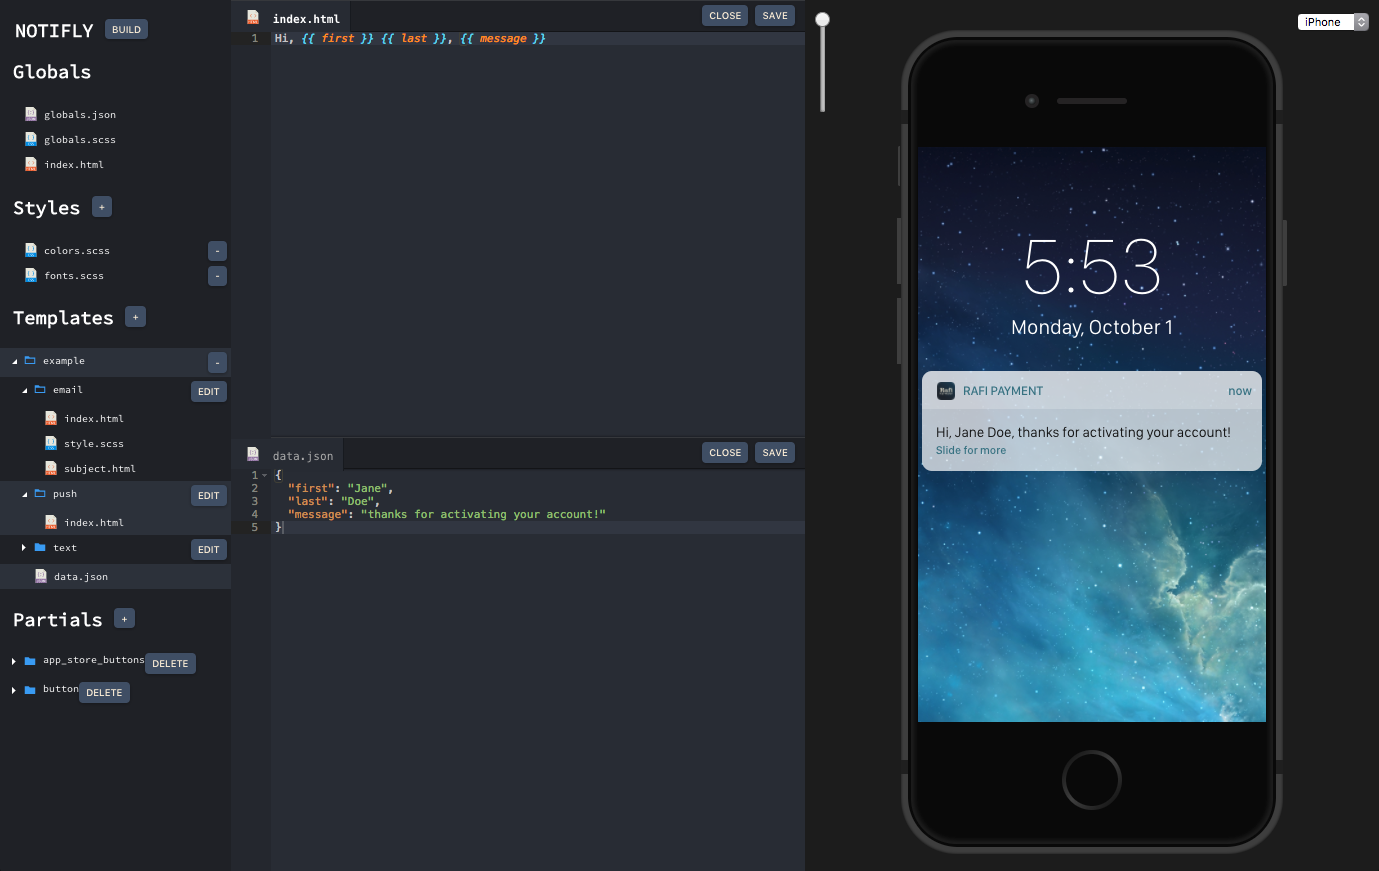
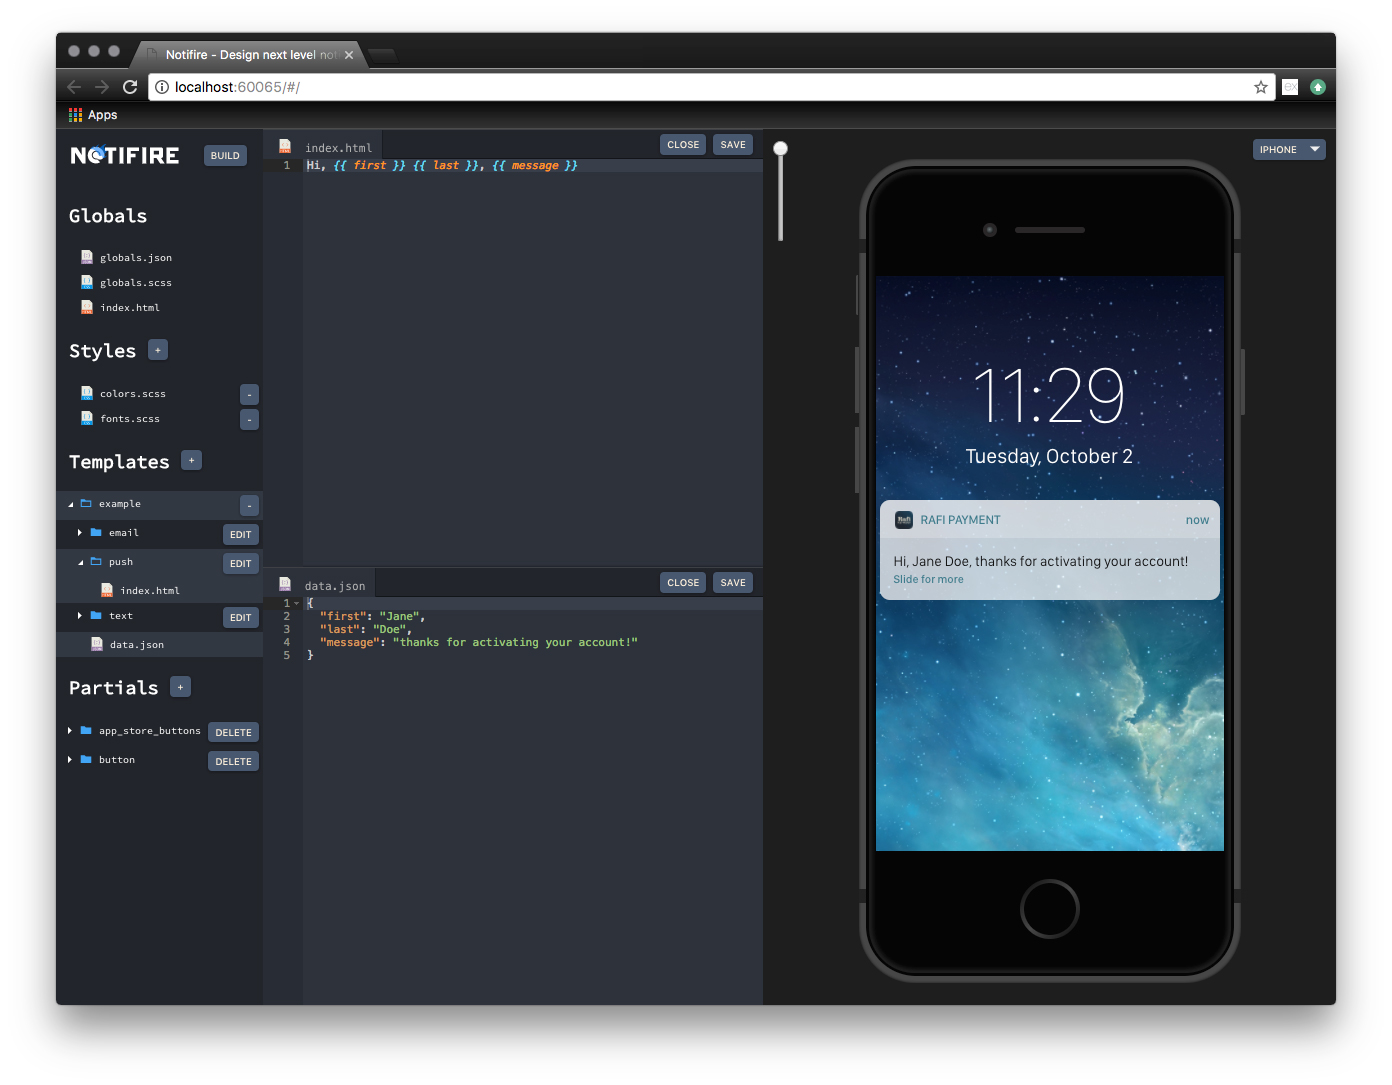
renamed project, cleaned up presentation, updated readme

diff --git a/src/js/components/logo.vue b/src/js/components/logo.vue
@@ -1,18 +1,27 @@
 <template>
-  <svg viewBox="0 0 413 129" :style="[fill]">
-    <path class="st0" d="M26.3,35v62.7h-1.9V31.3h1.4L76.6,95V31.3h1.9v66.4h-2.1L26.3,35z"/>
-    <path class="st0" d="M123.1,98.1c-4.6,0-8.8-1-12.6-2.9c-3.8-1.9-7-4.5-9.8-7.6c-2.7-3.1-4.9-6.7-6.4-10.7c-1.5-4-2.2-8.2-2.2-12.4
-      c0-4.4,0.8-8.7,2.4-12.7c1.6-4,3.8-7.6,6.5-10.7c2.8-3.1,6-5.6,9.8-7.4c3.8-1.8,7.8-2.8,12.2-2.8c4.5,0,8.7,1,12.5,2.9
-      c3.8,2,7.1,4.5,9.8,7.7c2.7,3.2,4.8,6.8,6.3,10.8c1.5,4,2.2,8.1,2.2,12.2c0,4.5-0.8,8.8-2.4,12.8c-1.6,4.1-3.8,7.6-6.5,10.7
-      c-2.8,3.1-6,5.5-9.8,7.4C131.5,97.2,127.5,98.1,123.1,98.1z M94,64.5c0,4.1,0.7,8.1,2.2,11.9c1.5,3.8,3.5,7.2,6,10.2
-      c2.6,3,5.6,5.3,9.2,7.1c3.6,1.7,7.4,2.6,11.7,2.6c4.3,0,8.2-0.9,11.8-2.8c3.6-1.8,6.6-4.3,9.2-7.2c2.5-3,4.5-6.4,5.9-10.2
-      c1.4-3.8,2.1-7.7,2.1-11.6c0-4.1-0.7-8.1-2.2-11.9c-1.5-3.8-3.5-7.2-6.1-10.2c-2.6-3-5.7-5.3-9.2-7.1c-3.5-1.7-7.3-2.6-11.4-2.6
-      c-4.3,0-8.2,0.9-11.8,2.8c-3.6,1.8-6.7,4.3-9.2,7.2c-2.6,3-4.5,6.4-5.9,10.2C94.7,56.7,94,60.6,94,64.5z"/>
-    <path class="st0" d="M209.7,33.2h-25.4v64.5h-1.9V33.2H157v-1.9h52.7V33.2z"/>
-    <path class="st0" d="M220.7,97.7V31.3h1.9v66.4H220.7z"/>
-    <path class="st0" d="M241,97.7V31.3h42.7v1.9h-40.8v29.5h34.9v1.9h-34.9v33.1H241z"/>
-    <path class="st0" d="M297.3,97.7V31.3h1.9v64.5h41.7v1.9H297.3z"/>
-    <path class="st0" d="M335.1,31.3l25.6,38.5l25.7-38.5h2.1L361.7,72v25.7h-1.9V71.8L333,31.3H335.1z"/>
+  <svg viewBox="0 0 120 32" class="logo">
+    <path class="st0" d="M37.6,13.1c-0.4-1-1-1.9-1.8-2.6s-1.6-1.3-2.6-1.8s-2.1-0.6-3.2-0.6c-1.1,0-2.2,0.2-3.2,0.6s-1.9,1-2.6,1.8
+      s-1.3,1.6-1.8,2.6c-0.4,1-0.6,2.1-0.6,3.2c0,1,0.2,2,0.5,2.9c0.3,0.9,0.8,1.7,1.4,2.4c0.1,0.1,0.1,0.2,0.2,0.2s0.1,0.2,0.2,0.2
+      c0.8,0.8,1.7,1.4,2.6,1.8h0c0,0,0.1,0,0.1,0c0.5,0.2,1,0.3,1.5,0.4s1,0.2,1.6,0.2c0.7,0,1.5-0.1,2.2-0.3c0.7-0.2,1.4-0.5,2-0.9
+      l-2.9-2.9c-1,0.3-2,0.2-2.9-0.2c0,0,0,0,0,0c0,0,0,0,0,0c0,0,0,0,0,0c-0.8-0.3-1.4-0.9-1.8-1.6c-0.5-0.7-0.7-1.5-0.7-2.4
+      c0-0.6,0.1-1.2,0.3-1.7c0.2-0.5,0.5-1,0.9-1.4c0.4-0.4,0.9-0.7,1.4-0.9c0.5-0.2,1.1-0.3,1.7-0.3c0.6,0,1.2,0.1,1.7,0.3
+      c0.5,0.2,1,0.5,1.4,0.9c0.4,0.4,0.7,0.8,0.9,1.4c0.2,0.5,0.3,1.1,0.3,1.7c0,0.2-0.1,0.3-0.2,0.5c-0.1,0.1-0.3,0.2-0.4,0.2
+      c0,0-0.1,0-0.1-0.1c-0.1-0.1-0.1-0.2-0.1-0.4v-0.2c0-0.5-0.1-0.9-0.3-1.3c-0.2-0.4-0.4-0.8-0.7-1.1c-0.3-0.3-0.7-0.6-1.1-0.7
+      c-0.4-0.2-0.9-0.3-1.3-0.3c-0.5,0-0.9,0.1-1.3,0.3c-0.4,0.2-0.8,0.4-1.1,0.7c-0.3,0.3-0.6,0.7-0.7,1.1c-0.2,0.4-0.3,0.9-0.3,1.3
+      c0,0.5,0.1,0.9,0.3,1.3c0.2,0.4,0.4,0.8,0.7,1.1c0.3,0.3,0.7,0.6,1.1,0.7c0.4,0.2,0.9,0.3,1.3,0.3c0.2,0,0.3,0,0.5,0
+      c0.1,0,0.3,0,0.4-0.1c0.4,0.4,0.8,0.7,1.3,0.9c0.5,0.2,1,0.3,1.5,0.3c0.6,0,1.2-0.1,1.7-0.4c0.5-0.2,1-0.6,1.4-1s0.7-0.9,1-1.4
+      c0.2-0.6,0.4-1.1,0.4-1.8C38.3,15.2,38.1,14.1,37.6,13.1z"/>
+    <path class="st1" d="M24.2,10c0,0,1.8-3,5.1-3c0,0-3.1,1.2-1.5,1.8c1.5,0.6,2.6-3.1,5.7-3.3c0,0-3.2,1.9-1.1,3.2
+      C34.4,10,36.2,5,41,4.5c0,0-4.4,3.1-2.6,5s3-0.8,3-0.8s0.2,2.6-1.2,4.3c-1.4,1.7-3,3.2-1.3,4.1c1.6,0.9,2.3-1.1,2.3-1.1
+      s-0.1,2.7-4.8,3.4c0,0,0.7-3.4-1.9-2.4C31.7,18,32.4,10.1,24.2,10z"/>
+    <path class="st0" d="M19.7,24.5h-3.3l-7.3-11v11H5.3V8.4h5.4l5.1,7.8V8.4h3.8V24.5z"/>
+    <path class="st0" d="M50.1,11.8h-3.7v12.8h-3.8V11.8h-3.7V8.4h11.3V11.8z"/>
+    <path class="st0" d="M57.4,24.5h-3.8V8.4h3.8V24.5z"/>
+    <path class="st0" d="M64.8,11.8v3h4.6v3.4h-4.6v6.3H61V8.4h12.1v3.5H64.8z"/>
+    <path class="st0" d="M80.2,24.5h-3.8V8.4h3.8V24.5z"/>
+    <path class="st0" d="M94.2,24.5L90.5,19h-2.7v5.5H84V8.4h11c0.5,0,1,0.2,1.4,0.5s0.6,0.7,0.6,1.2v7.2c0,0.5-0.2,0.9-0.6,1.2
+      S95.5,19,95,19l3.7,5.5H94.2z M87.8,15.5h5.3v-3.7h-5.3V15.5z"/>
+    <path class="st0" d="M104.1,11.8v3h4.6v3.4h-4.6v2.9h8.4v3.4h-12.1V8.4h12.1v3.5H104.1z"/>
   </svg>
 </template>
 
@@ -42,6 +51,13 @@ export default {
 <style scoped lang="scss">
 @import '~%/modules/colors';
 
+.st0 {
+  fill:#FFFFFF;
+}
+.st1 {
+  fill:#0080FF;
+  opacity: 0.6;
+}
 // svg {
 //   color: $color-text-light;
 // }

diff --git a/src/js/components/editor-group.vue b/src/js/components/editor-group.vue
@@ -14,7 +14,28 @@
       <div class="container">
         <logo />
         <div class="tagline">
-          Lorem ipsum dolor sit amet
+          Design next level notifications
+        </div>
+        <div class="getting-started">
+          <h3>Getting Started</h3>
+          <p>Create a new template or select an existing one, then click edit. This will open the relevant files in the editor, and render the template.</p>
+
+          <h3>Templates</h3>
+          <p>
+            Templates are a group that represent a single notification, each containing an email, a push notification, and a text message.
+            <a href="http://handlebarsjs.com/expressions.html" target="_blank">More info</a>
+          </p>
+
+          <h3>Partials</h3>
+          <p>
+            Partials allow you to reuse components within your templates. 
+            <a href="http://handlebarsjs.com/partials.html" target="_blank">More info</a>
+          </p>
+
+          <h3>Globals</h3>
+          <p>
+            Globals are elements that are shared between all templates. Your global template will wrap every email template, global json will be available to every template, global styles will be applied to every template.
+          </p>
         </div>
       </div>
     </div>
@@ -133,6 +154,10 @@ $divider-background: #333;
   color: $color-text-light;
   float: left;
   overflow: hidden;
+  
+  &.empty {
+    overflow: scroll;
+  }
 }
 .divider {
   height: $divider-height;
@@ -147,10 +172,20 @@ $divider-background: #333;
 }
 .container {
   max-width: 90%;
-  width: 500px;
+  width: 300px;
   margin: 10vh auto 0;
+
+  .logo {
+    width: 200px;
+  }
 }
 .tagline {
   color: $color-highlight;
+}
+
+.getting-started {
+  margin-top: 30px;
+  text-align: left;
+  font-size: 12px;
 }
 </style>

diff --git a/src/js/components/structures/email/index.vue b/src/js/components/structures/email/index.vue
@@ -3,11 +3,13 @@
     <div class="mask" />
     <component :is="type" :data="renderer_html"/>
     <div class="menu">
-      <select v-model="type">
-        <option value="desktop">Desktop</option>
-        <option value="iphone">iPhone</option>
-        <option value="android">Android</option>
-      </select>
+      <div class="select">
+        <select v-model="type">
+          <option value="desktop">Desktop</option>
+          <option value="iphone">iPhone</option>
+          <option value="android">Android</option>
+        </select>
+      </div>
       <div class="sender">
         <button @click="toggleModal">Send Test</button>
         <modal v-if="modal_visible" @close="closeModal" :confirm="confirmModal">
@@ -120,10 +122,14 @@ $subject-height: 32px;
   position: absolute;
   top: 10px;
   right: 10px;
+
+  select {
+    margin-top: 10px;
+  }
 }
 .sender {
   // margin-top: 6px;
-  margin-top: 2px;
+  margin-top: 10px;
   float: right;
   margin-left: 7px;
 }

diff --git a/src/scss/modules/reset.scss b/src/scss/modules/reset.scss
@@ -1,0 +1,43 @@
+/**
+ * reset.scss
+ */
+
+ *, *:before, *:after {
+  box-sizing: inherit;
+}
+html {
+  box-sizing: border-box;
+}
+html, body, div, span, object, iframe, blockquote, pre,
+a, abbr, acronym, address, big, cite, code,
+del, dfn, em, img, ins, kbd, q, s, samp,
+small, strike, strong, sub, sup, tt, var,
+b, u, i, center,
+dl, dt, dd, ol, ul, li,
+fieldset, form, label, legend,
+table, caption, tbody, tfoot, thead, tr, th, td,
+article, aside, canvas, details, embed,
+figure, figcaption, footer, header, hgroup,
+menu, nav, output, section, summary,
+time, mark, audio, video {
+  margin: 0;
+  padding: 0;
+  border: 0;
+  font-size: 100%;
+  font: inherit;
+  vertical-align: baseline;
+}
+article, aside, details, figcaption, figure,
+footer, header, hgroup, menu, nav, section {
+  display: block;
+}
+// html, body {
+//   line-height: 1em;
+// }
+// h1, h2, h3, h4, h5, h6 {
+//   margin: 0;
+// }
+table {
+  border-collapse: collapse;
+  border-spacing: 0;
+}

diff --git a/src/scss/modules/buttons.scss b/src/scss/modules/buttons.scss
@@ -2,7 +2,7 @@
 
 $button-text-size: 0.6rem;
 
-button {
+button, select {
   display: inline-block;
   position: relative;
   padding: .40em .65em;
@@ -47,5 +47,36 @@ button {
       color: $color-button-text;
       box-shadow: 0 1px 4px rgba(0,0,0, 0.2);
     }
+  }
+}
+
+select {
+  // padding: 10px;
+  -webkit-appearance: none;
+  appearance: none;
+}
+
+.select {
+  display: inline-block;
+  position: relative;
+
+  select {
+    padding-right: 20px;
+  }
+
+  &:after {
+    display: inline-block;
+    content: '';
+    position: absolute;
+    right: 6px;
+    bottom: 11px;
+    // bottom: 50%;
+    width: 0;
+    height: 0;
+    border-color: #efefef transparent transparent transparent;
+    border-style: solid;
+    border-width: 5px 5px 0 5px;
+    transform: translateY(50%);
+    z-index: 2;
   }
 }

diff --git a/src/js/components/structures/push/index.vue b/src/js/components/structures/push/index.vue
@@ -2,10 +2,12 @@
   <div class="container">
     <component :is="type" :data="push_data" :style="[device_styles]" />
     <div class="menu">
-      <select v-model="type">
-        <option value="iphone">iPhone</option>
-        <option value="android">Android</option>
-      </select>
+      <div class="select">
+        <select v-model="type">
+          <option value="iphone">iPhone</option>
+          <option value="android">Android</option>
+        </select>
+      </div>
     </div>
     <div class="scale">
       <input type="range" orient="vertical" v-model="size" min="20" />

diff --git a/src/js/components/structures/text/index.vue b/src/js/components/structures/text/index.vue
@@ -2,10 +2,12 @@
   <div class="container">
     <component :is="type" :data="text_data" :style="[device_styles]" />
     <div class="menu">
-      <select v-model="type">
-        <option value="iphone">iPhone</option>
-        <option value="android">Android</option>
-      </select>
+      <div class="select">
+        <select v-model="type">
+          <option value="iphone">iPhone</option>
+          <option value="android">Android</option>
+        </select>
+      </div>
     </div>
     <div class="scale">
       <input type="range" orient="vertical" v-model="size" min="20" />

diff --git a/src/js/components/tree/tree-view.vue b/src/js/components/tree/tree-view.vue
@@ -1,6 +1,7 @@
 <template>
   <div class="tree-view" :style="[tree_styles]">
-    <h3>NOTIFLY <button @click="build">Build</button></h3>
+    <logo />
+    <button @click="build" class="build">Build</button>
 
     <tree-group
       type="globals"
@@ -84,5 +85,15 @@ export default {
   h3 {
     padding-left: 15px;
   }
+
+  .logo {
+    width: 120px;
+    margin: 10px;
+  }
+}
+.build {
+  margin-top: 16px;
+  float: right;
+  margin-right: 16px;
 }
 </style>

diff --git a/src/js/components/structures/email/desktop.vue b/src/js/components/structures/email/desktop.vue
@@ -45,7 +45,7 @@ export default {
 <style scoped lang="scss">
 @import '~%/modules/mixins';
 
-$header-height: 32px;
+$header-height: 60px;
 .container {
   height: 100%;
 }
@@ -54,7 +54,7 @@ $header-height: 32px;
   height: $header-height;
   text-align: left;
   padding: 10px;
-  border-bottom: 1px solid grey;
+  border-bottom: 1px solid #ccc;
   font-family: "Helvetica Neue", Helvetica, sans-serif;
   font-size: 0.8em;
   text-align: left;

diff --git a/src/scss/modules/typography.scss b/src/scss/modules/typography.scss
@@ -1,0 +1,20 @@
+@import '~%/modules/colors';
+
+a {
+  color: $color-highlight;
+  // text-decoration: none;
+
+  &:hover {
+    // text-decoration: underline;
+  }
+
+  &:active {
+    color: darken($color-highlight, 8%);
+    // text-decoration: none;
+  }
+
+  &:visited {
+    color: darken($color-highlight, 8%);
+    // text-decoration: none;
+  }
+}

diff --git a/server.js b/server.js
@@ -4,7 +4,9 @@ const cors = require('cors')
 const bodyParser = require('body-parser')
 const utils = require('./src/js/server/utils')
 const Email = require('./src/js/server/utils/send')
-const port = '3636'
+const port = '36361'
+
+console.warn = () => {}
 
 // Server
 

diff --git a/src/scss/styles.scss b/src/scss/styles.scss
@@ -1,6 +1,8 @@
 @import url('https://fonts.googleapis.com/css?family=Source+Code+Pro');
 
+@import '~%/modules/reset';
 @import '~%/modules/fonts';
+@import '~%/modules/typography';
 @import '~%/modules/forms';
 @import '~%/modules/buttons';
 @import '~%/modules/tree';
